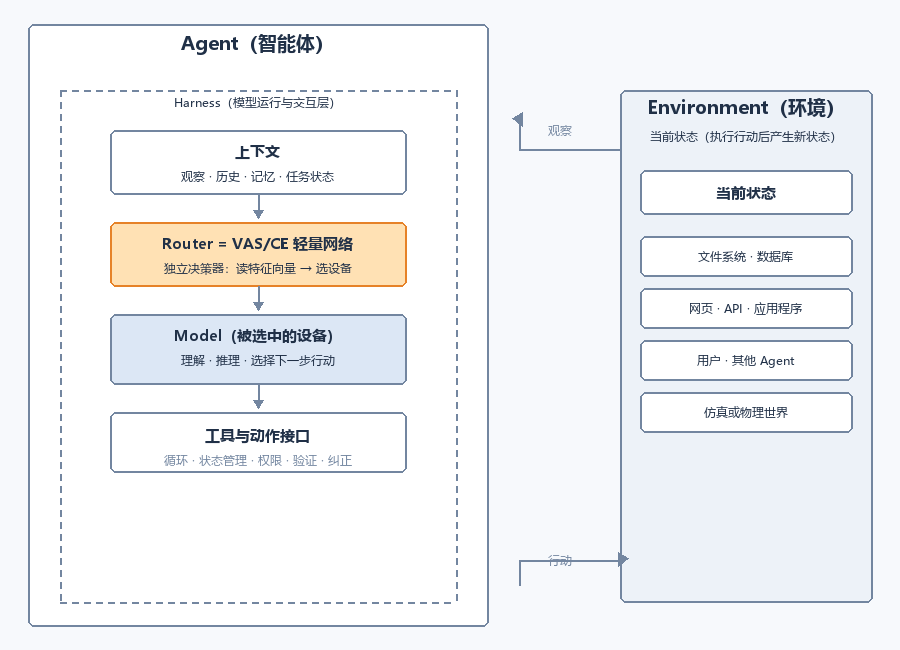
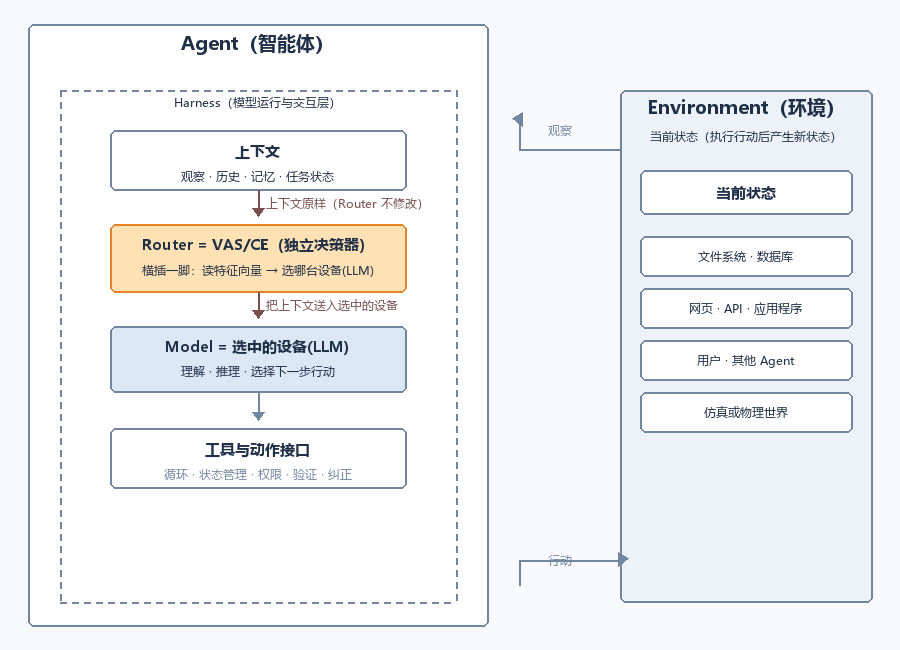
同步修正后的 harness 图

Changed region(s): [[0.1244, 0.2769, 0.4667, 0.7385]]

diff --git a/docs/RSI-Router精读与对比.md b/docs/RSI-Router精读与对比.md
@@ -42,17 +42,17 @@
 
 ## 3.5 协作与数据流（参考 Agent 的 Model-Harness 闭环结构）
 
-**AgentRouter**——路由器（VAS/CE）是 **Harness 里的独立组件**，夹在"上下文"和"Model"之间，读特征向量选设备：
+**AgentRouter**——Router（VAS/CE）在「上下文 → LLM」之间**横插一脚**：读特征向量选设备，上下文**原样通过、不修改**：
 
 ![AgentRouter harness 结构](../diagrams/agentrouter-harness.png)
 
-**RSI-Router**——路由器**就是 Model（小模型 S）本身**，上下文里塞了"子任务定义 + 识别规则 + 技能"：
+**RSI-Router**——在上下文的**后面追加**「子任务定义 + 识别规则 + 技能」，小模型 S 读"原文 + 追加"的完整上下文做路由 + 执行：
 
 ![RSI-Router harness 结构](../diagrams/rsirouter-harness.png)
 
-**一句话对比**：
-- AgentRouter：**Router 是 Harness 的独立组件**（读特征向量 → 选设备），Model 只负责执行，路由与执行分离；
-- RSI-Router：**Router = Model**（小模型 S 读完整上下文，路由 + 执行同体），Codex 离线把策略+技能注入上下文。
+**一句话对比**（关键位置差异）：
+- AgentRouter：**上下文 → [Router 横插一脚 · 选设备] → LLM**——上下文不变，只换"喂给哪个 LLM"；
+- RSI-Router：**上下文 + [后面追加 子任务定义 / 技能] → LLM**——追加内容进上下文，小模型读全文。
 
 ---
 
